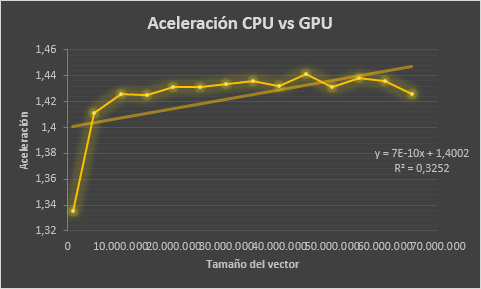
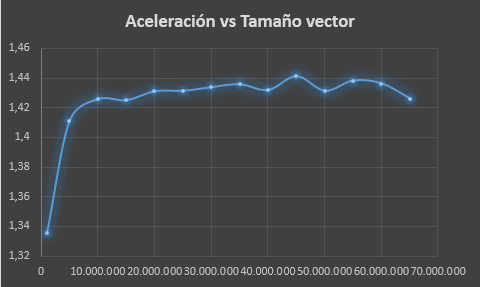
datos y gráficas

diff --git a/SUMAR VECTORES/README.md b/SUMAR VECTORES/README.md
@@ -5,11 +5,45 @@ En este trabajo vamos a realizar el codigo de dos algoritmos diferentes.
 * El primero está basado en el llenado de dos vectores y suma de los mismos usando CPU.
 * El segundo está basado en el llenado de dos vectores usando CPU, y la suma de los mismo usando GPU.
 
-En ambos casos se mide el tiempo que se tarda el realizar la suma, dados lo resultado podemos apreciar una gráfica que nos muestra la aceleración respecto al tamaño de los vectores, la cual va creciendo a medida
+En ambos casos se mide el tiempo que se tarda el realizar la suma, dados lo resultado podemos apreciar dos gráficas la primera nos muestra el tiempo que tarda cada algoritmo en realizar la operación y la segunda nos muestra la aceleración respecto al tamaño de las matrices, la cual va creciendo a medida que aumenta el tamaño.
 que aumenta el tamaño.
 
-En el siguiente enlace podemos observar la tabla de datos obtenidos: 
-[tabla de datos obtenidos](https://docs.google.com/spreadsheets/d/1hzlGXc0NErNkQrIFzfnTtUfpj7A26vMDnzPEmBsz6lk/edit#gid=0)
+Tamaño del vector|Tiempo de CPU|Tiempo de GPU
+-|-|-
+1.000.000	|0,002361	|0,001768
+5.000.000	|0,011711	|0,0082985
+10.000.000	|0,023462	|0,0164565
+15.000.000	|0,035157	|0,024672
+20.000.000	|0,046874	|0,032756
+25.000.000	|0,0586535	|0,040979
+30.000.000	|0,070289	|0,0490235
+35.000.000	|0,0821855	|0,057243
+40.000.000	|0,093661	|0,065412
+45.000.000	|0,105899	|0,0734805
+50.000.000	|0,1171525	|0,0818475
+55.000.000	|0,1288465	|0,089585
+60.000.000	|0,1406515	|0,0979245
+65.000.000	|0,152217	|0,1067265
+
+![Tiempos de ejecución](https://github.com/anvajaramillo/HPC/blob/master/SUMAR%20VECTORES/tiempos.PNG)
+
+
+Tamaño del vector|Aceleracion
+-|-|-
+1.000.000	|1,33540724
+5.000.000	|1,411218895
+10.000.000	|1,425698052
+15.000.000	|1,424975681
+20.000.000	|1,431005007
+25.000.000	|1,431306279
+30.000.000	|1,433781758
+35.000.000	|1,435730133
+40.000.000	|1,431862655
+45.000.000	|1,441185076
+50.000.000	|1,431350988
+55.000.000	|1,438259753
+60.000.000	|1,436325945
+65.000.000	|1,426234347
 
 ![Aceleracion](https://github.com/anvajaramillo/HPC/blob/master/SUMAR%20VECTORES/aceleracion.PNG)
 
